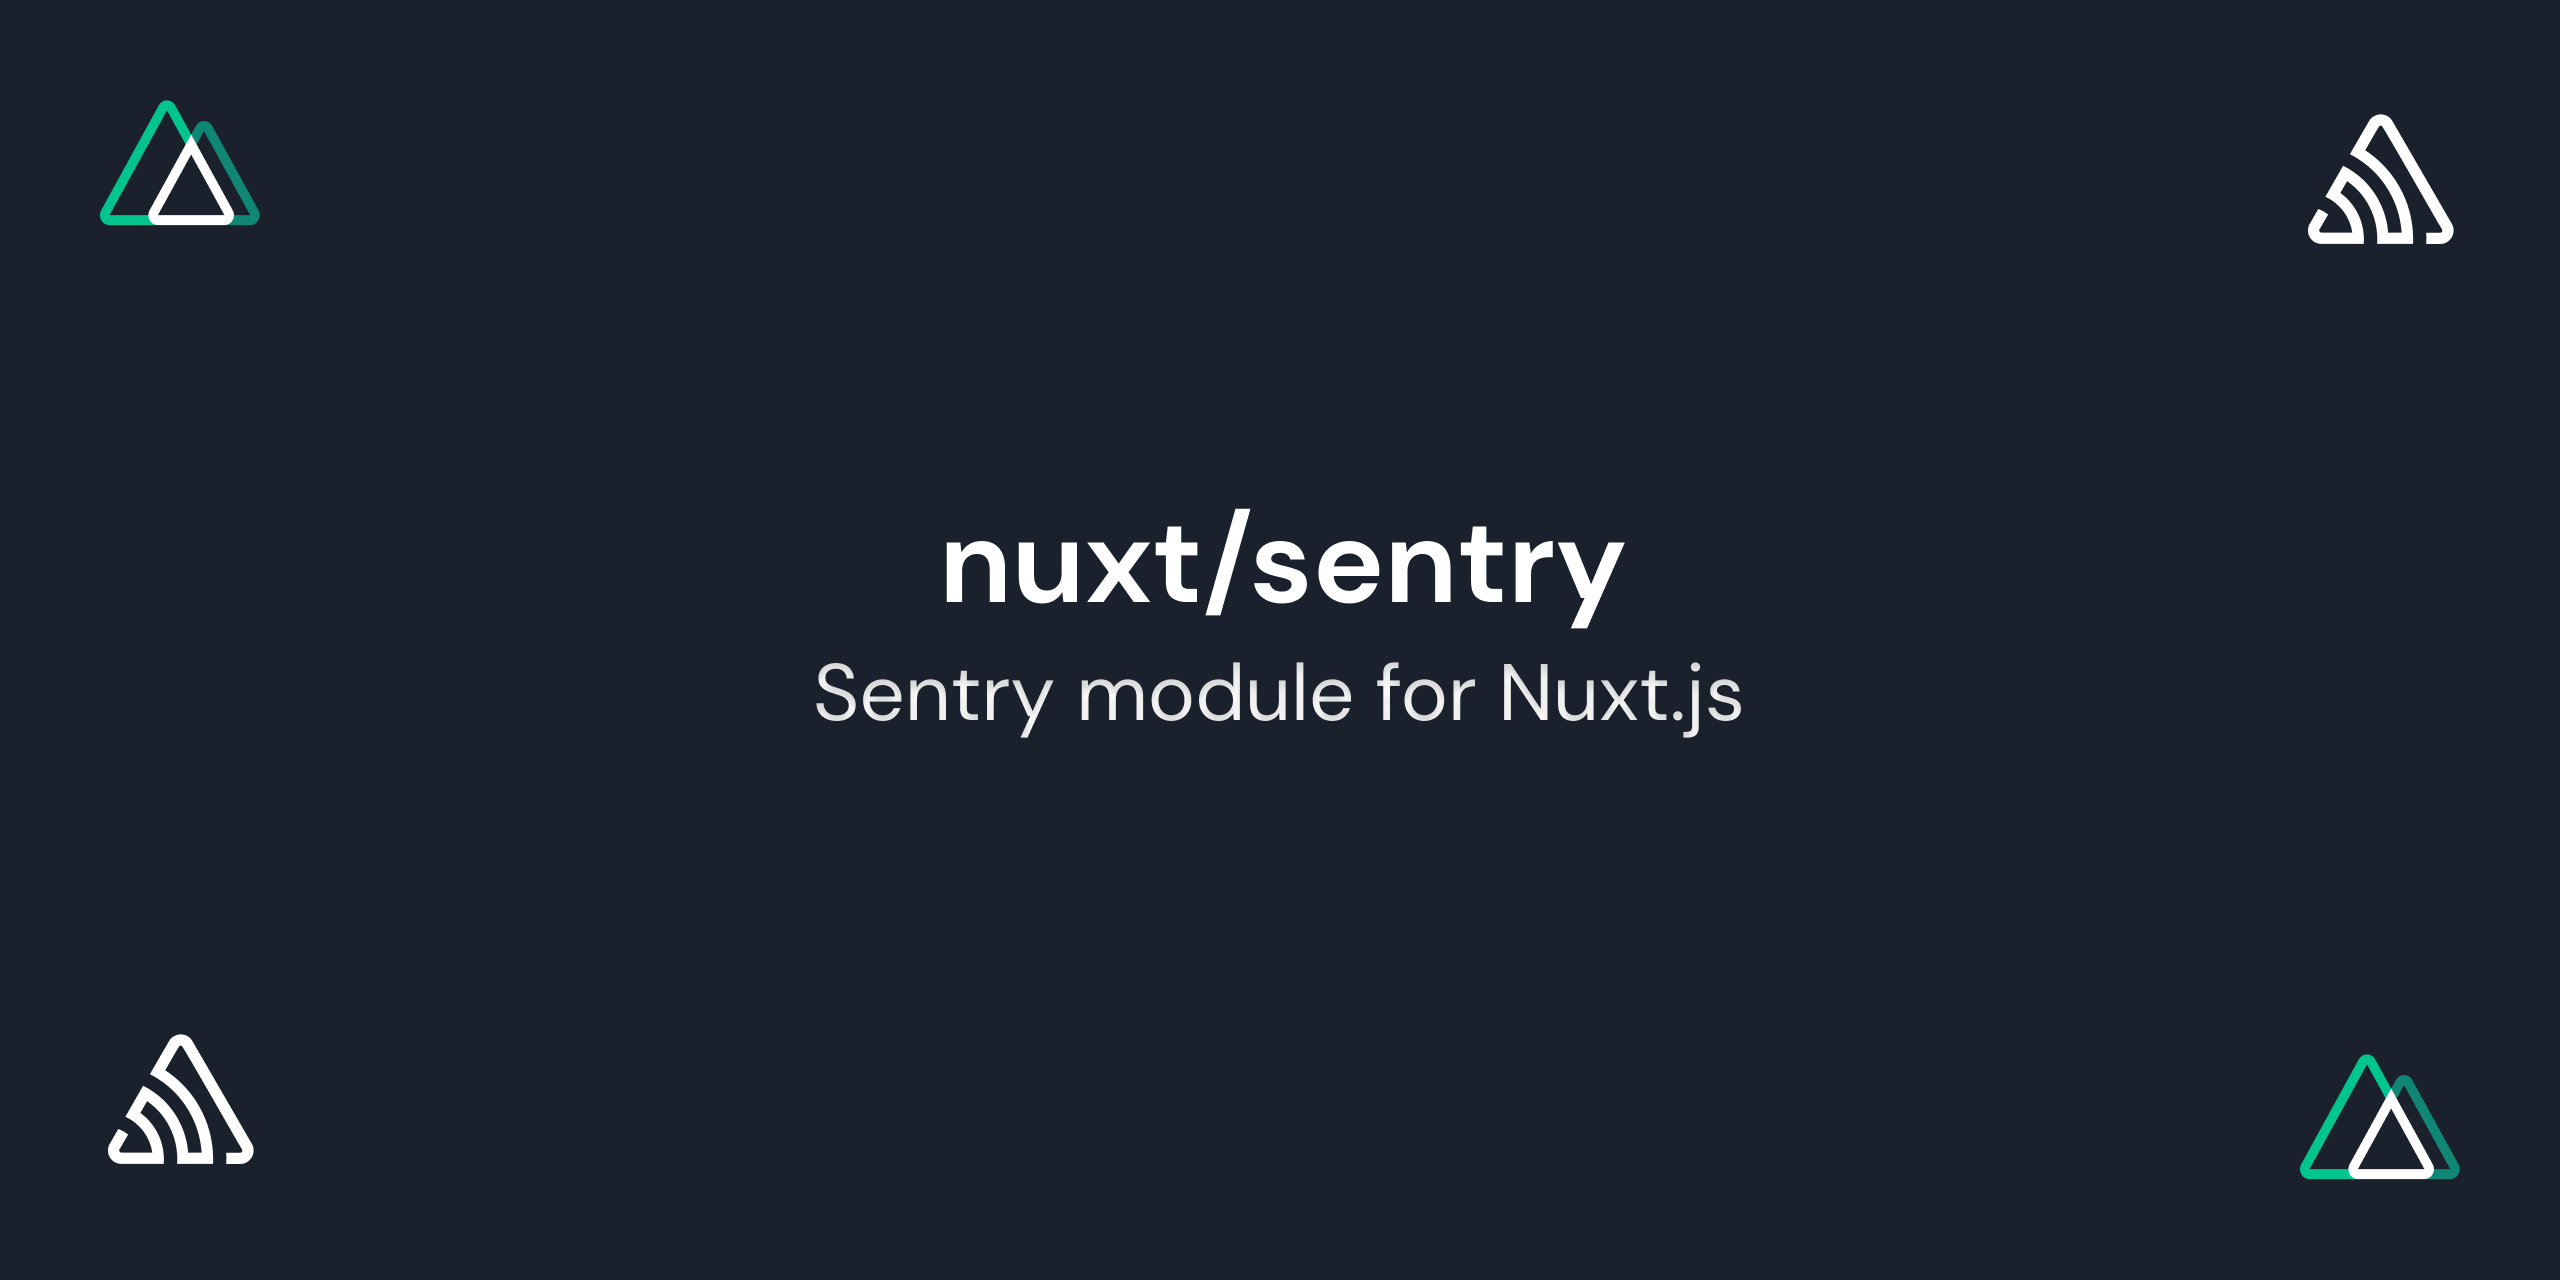
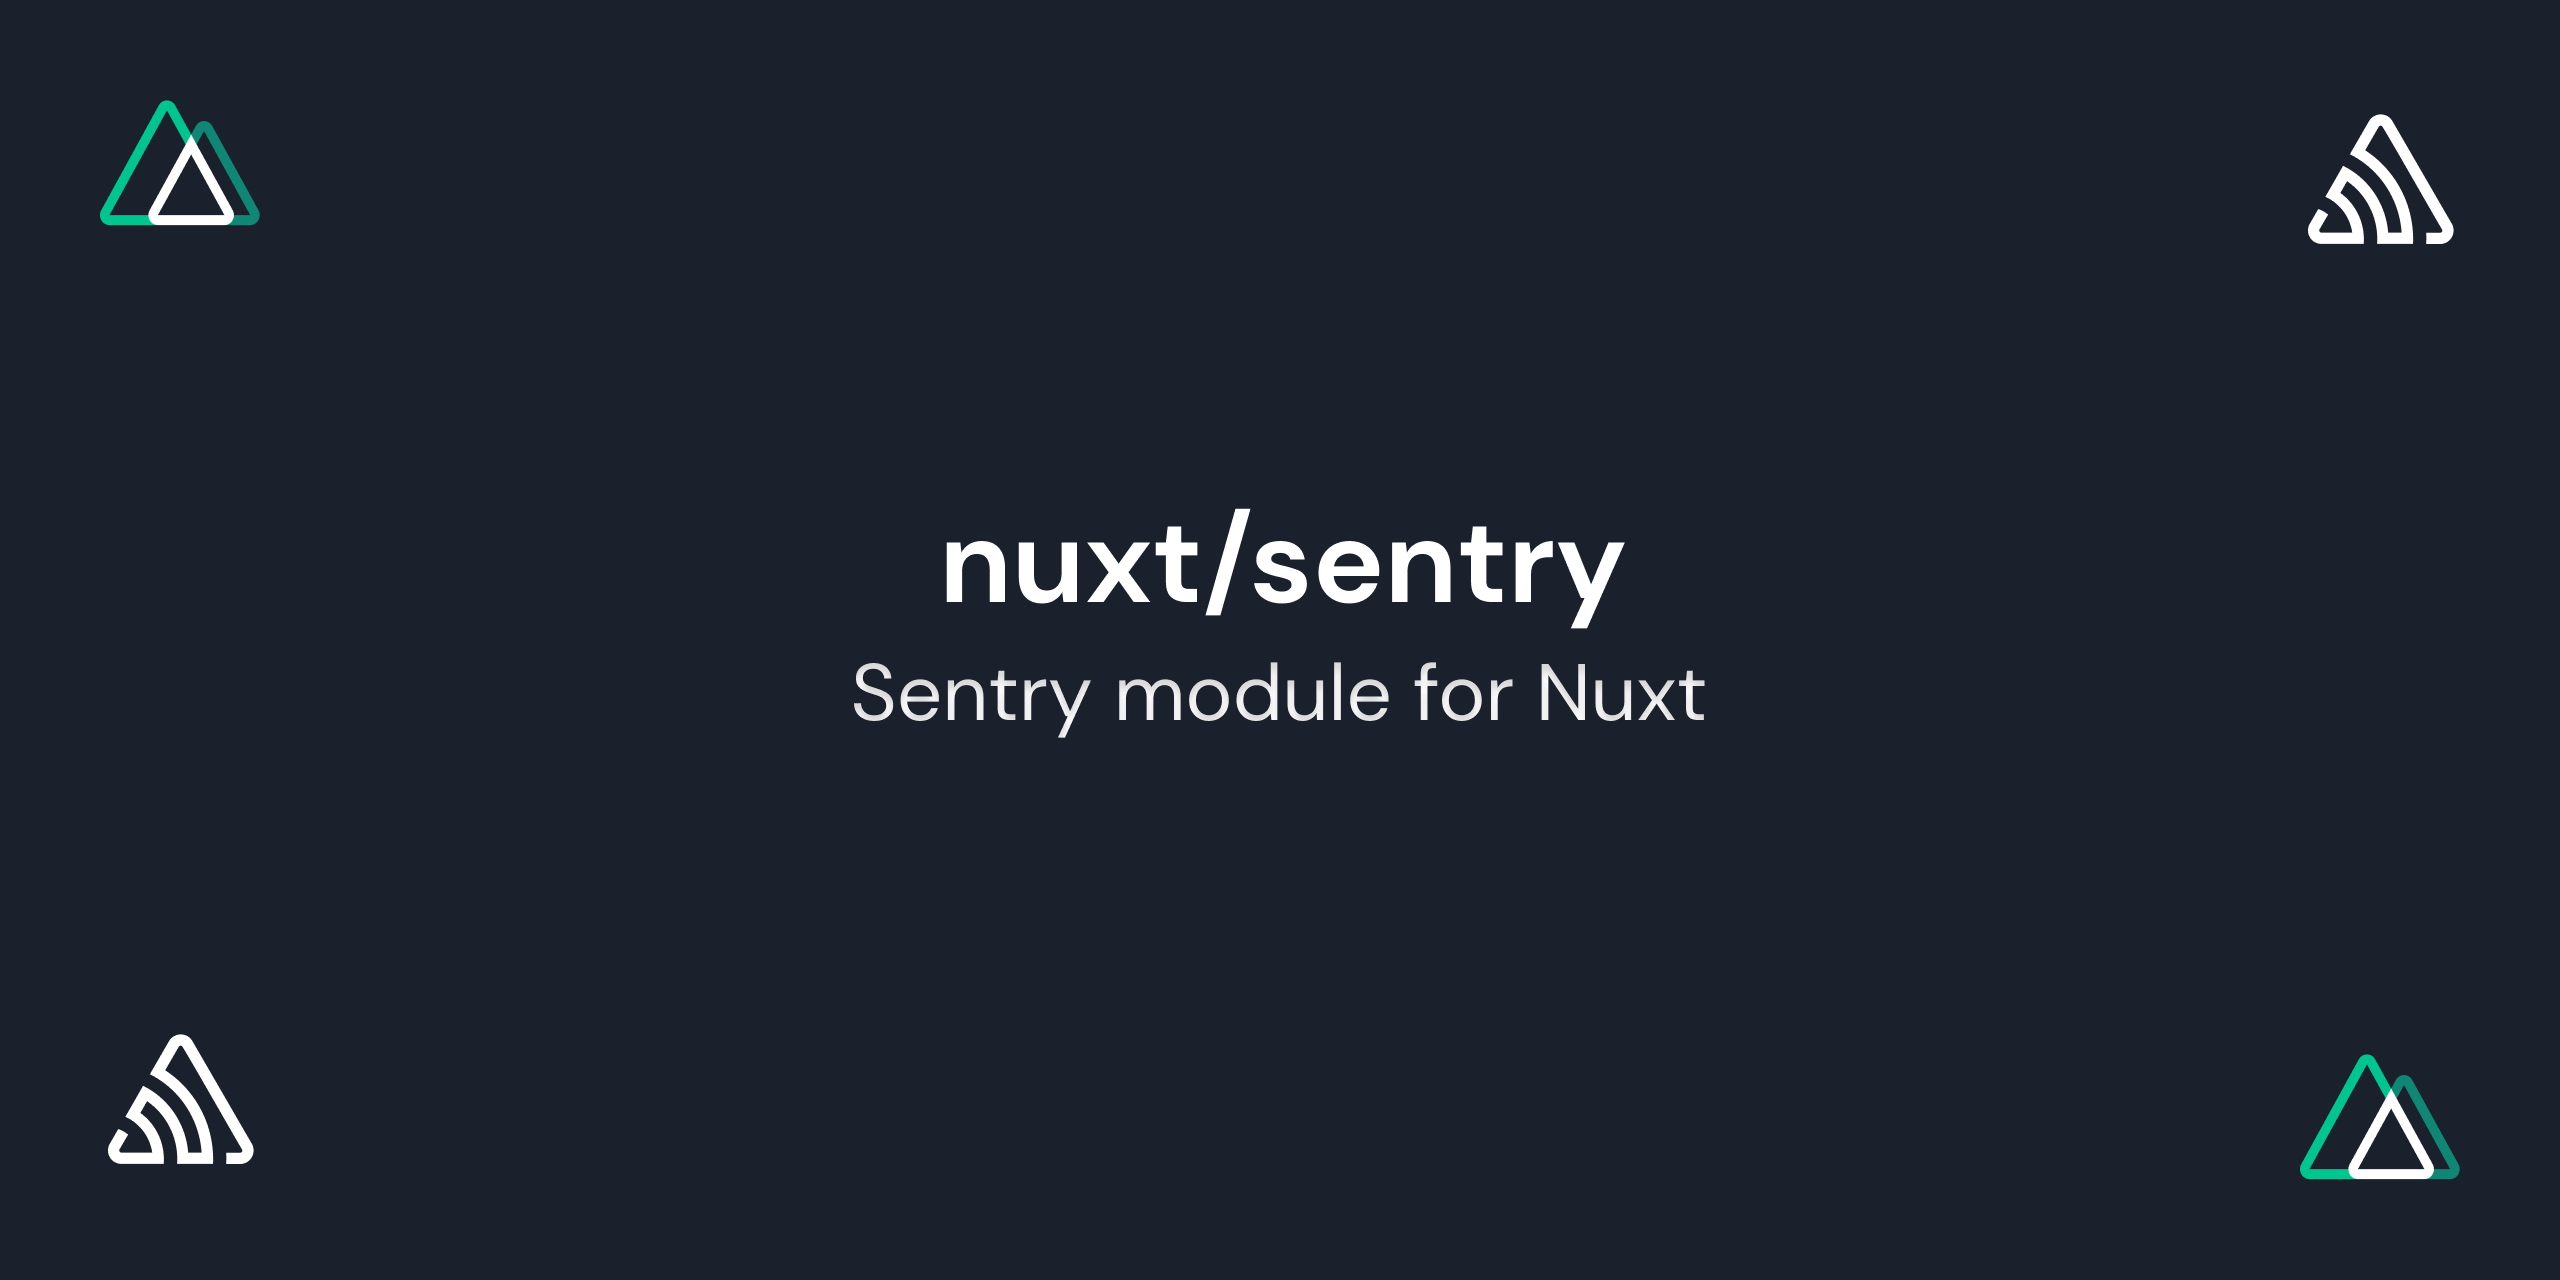
docs: small updates

Changed region(s): [[0.3125, 0.5, 0.6875, 0.5625]]

diff --git a/README.md b/README.md
@@ -1,5 +1,4 @@
 [![@nuxtjs/sentry](docs/static/preview.png)](https://sentry.nuxtjs.org)
-
 # @nuxtjs/sentry
 
 [![npm version][npm-version-src]][npm-version-href]
@@ -9,14 +8,12 @@
 [![Dependencies][david-dm-src]][david-dm-href]
 [![Standard JS][standard-js-src]][standard-js-href]
 
-> [Sentry](http://sentry.io) module for Nuxt.js
+> [Sentry](http://sentry.io) module for [Nuxt](https://nuxtjs.org)
 
-<p align="center">
-  <a href="https://sentry.nuxtjs.org">Read Documentation</a>
-</p>
-
-
+- [✨ &nbsp;Release Notes](https://sentry.nuxtjs.org/releases)
+- [📖 &nbsp;Documentation](https://sentry.nuxtjs.org)
 ## License
+
 [MIT License](./LICENSE)
 
 <!-- Badges -->
